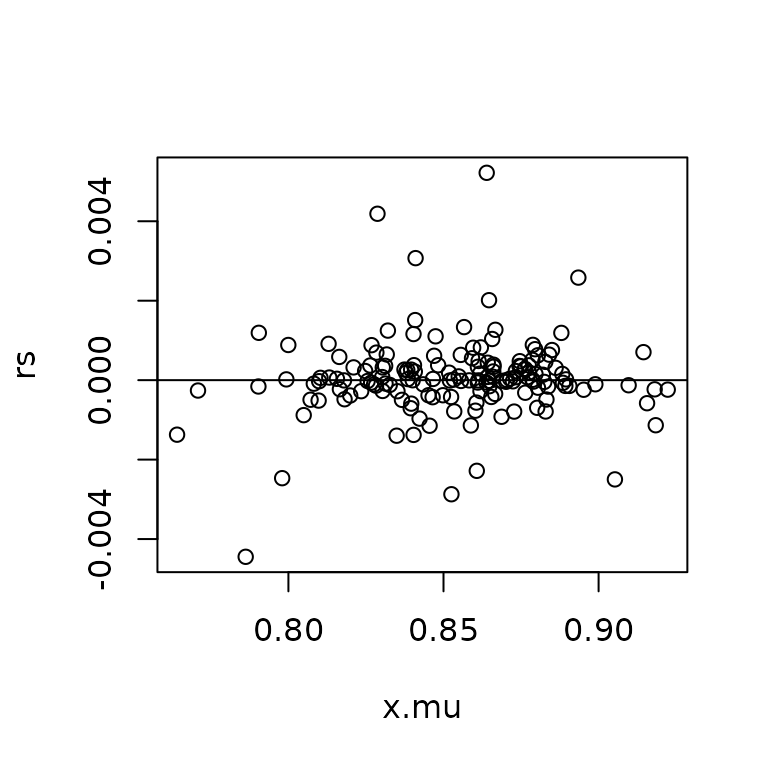
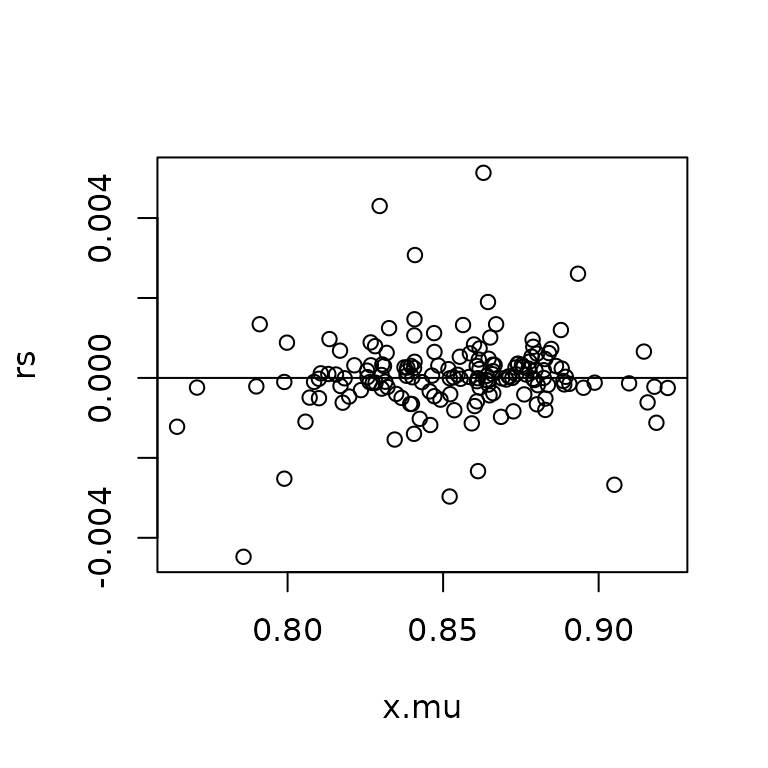
spell check

diff --git a/docs/articles/spatial-me-models.html b/docs/articles/spatial-me-models.html
@@ -203,9 +203,9 @@
 <span><span class="co">## 1 10        0     3</span></span>
 <span><span class="co">##   lower upper</span></span>
 <span><span class="co">## 1  -1.7     1</span></span></code></pre>
-<pre><code><span><span class="co">## Warning: Tail Effective Samples Size (ESS) is too low, indicating posterior variances and tail quantiles may be unreliable.</span></span>
+<pre><code><span><span class="co">## Warning: Bulk Effective Samples Size (ESS) is too low, indicating posterior means and medians may be unreliable.</span></span>
 <span><span class="co">## Running the chains for more iterations may help. See</span></span>
-<span><span class="co">## https://mc-stan.org/misc/warnings.html#tail-ess</span></span></code></pre>
+<span><span class="co">## https://mc-stan.org/misc/warnings.html#bulk-ess</span></span></code></pre>
 <div class="sourceCode" id="cb11"><pre class="downlit sourceCode r">
 <code class="sourceCode R"><span><span class="fu"><a href="https://rdrr.io/r/base/print.html" class="external-link">print</a></span><span class="op">(</span><span class="va">fit</span><span class="op">)</span></span></code></pre></div>
 <pre><code><span><span class="co">## Spatial Model Results </span></span>
@@ -213,8 +213,8 @@
 <span><span class="co">## Spatial method (outcome):  CAR </span></span>
 <span><span class="co">## Likelihood function:  poisson </span></span>
 <span><span class="co">## Link function:  log </span></span>
-<span><span class="co">## Residual Moran Coefficient:  6.076923e-05 </span></span>
-<span><span class="co">## WAIC:  1320.44 </span></span>
+<span><span class="co">## Residual Moran Coefficient:  -0.002759231 </span></span>
+<span><span class="co">## WAIC:  1322.25 </span></span>
 <span><span class="co">## Observations:  159 </span></span>
 <span><span class="co">## Data models (ME): insurance</span></span>
 <span><span class="co">##  Data model (ME prior): CAR (auto Gaussian)</span></span>
@@ -223,12 +223,12 @@
 <span><span class="co">## post-warmup draws per chain=325, total post-warmup draws=1300.</span></span>
 <span><span class="co">## </span></span>
 <span><span class="co">##             mean se_mean    sd   2.5%    25%    50%    75%  97.5% n_eff  Rhat</span></span>
-<span><span class="co">## intercept -4.168   0.002 0.053 -4.275 -4.201 -4.168 -4.136 -4.064  1210 0.999</span></span>
-<span><span class="co">## insurance -2.702   0.023 0.726 -4.084 -3.192 -2.706 -2.231 -1.263   975 1.003</span></span>
-<span><span class="co">## car_rho    0.860   0.003 0.088  0.651  0.808  0.876  0.924  0.982   923 1.000</span></span>
-<span><span class="co">## car_scale  0.451   0.001 0.034  0.388  0.427  0.450  0.472  0.518   837 0.999</span></span>
+<span><span class="co">## intercept -4.165   0.002 0.057 -4.279 -4.199 -4.166 -4.134 -4.040   982 1.000</span></span>
+<span><span class="co">## insurance -2.705   0.021 0.775 -4.168 -3.207 -2.729 -2.185 -1.108  1301 1.001</span></span>
+<span><span class="co">## car_rho    0.869   0.002 0.085  0.673  0.821  0.886  0.933  0.985  1281 0.999</span></span>
+<span><span class="co">## car_scale  0.446   0.001 0.032  0.388  0.423  0.444  0.466  0.511  1030 0.999</span></span>
 <span><span class="co">## </span></span>
-<span><span class="co">## Samples were drawn using NUTS(diag_e) at Fri Mar  1 17:47:26 2024.</span></span>
+<span><span class="co">## Samples were drawn using NUTS(diag_e) at Fri Mar  1 17:55:22 2024.</span></span>
 <span><span class="co">## For each parameter, n_eff is a crude measure of effective sample size,</span></span>
 <span><span class="co">## and Rhat is the potential scale reduction factor on split chains (at </span></span>
 <span><span class="co">## convergence, Rhat=1).</span></span></code></pre>
@@ -271,15 +271,15 @@
 <code class="sourceCode R"><span><span class="fu"><a href="https://rdrr.io/r/utils/head.html" class="external-link">head</a></span><span class="op">(</span><span class="va">mu.x</span><span class="op">)</span></span></code></pre></div>
 <pre><code><span><span class="co">##           parameters</span></span>
 <span><span class="co">## iterations mu_x_true[1]</span></span>
-<span><span class="co">##       [1,]     1.765196</span></span>
-<span><span class="co">##       [2,]     1.835926</span></span>
-<span><span class="co">##       [3,]     1.885358</span></span>
-<span><span class="co">##       [4,]     1.822978</span></span>
-<span><span class="co">##       [5,]     1.719493</span></span>
-<span><span class="co">##       [6,]     1.563228</span></span></code></pre>
+<span><span class="co">##       [1,]     1.791290</span></span>
+<span><span class="co">##       [2,]     1.829802</span></span>
+<span><span class="co">##       [3,]     1.752293</span></span>
+<span><span class="co">##       [4,]     1.765069</span></span>
+<span><span class="co">##       [5,]     1.864278</span></span>
+<span><span class="co">##       [6,]     1.689700</span></span></code></pre>
 <div class="sourceCode" id="cb19"><pre class="downlit sourceCode r">
 <code class="sourceCode R"><span><span class="fu"><a href="https://rdrr.io/r/base/mean.html" class="external-link">mean</a></span><span class="op">(</span><span class="va">mu.x</span><span class="op">)</span></span></code></pre></div>
-<pre><code><span><span class="co">## [1] 1.787358</span></span></code></pre>
+<pre><code><span><span class="co">## [1] 1.785871</span></span></code></pre>
 <p>We can visualize these using <code>plot</code> or print a summary:</p>
 <div class="sourceCode" id="cb21"><pre class="downlit sourceCode r">
 <code class="sourceCode R"><span><span class="fu"><a href="https://rdrr.io/r/base/print.html" class="external-link">print</a></span><span class="op">(</span><span class="va">fit</span><span class="op">$</span><span class="va">stanfit</span>, pars <span class="op">=</span> <span class="fu"><a href="https://rdrr.io/r/base/c.html" class="external-link">c</a></span><span class="op">(</span><span class="st">"mu_x_true"</span>, <span class="st">"car_rho_x_true"</span>, <span class="st">"sigma_x_true"</span><span class="op">)</span><span class="op">)</span></span></code></pre></div>
@@ -288,11 +288,11 @@
 <span><span class="co">## post-warmup draws per chain=325, total post-warmup draws=1300.</span></span>
 <span><span class="co">## </span></span>
 <span><span class="co">##                   mean se_mean   sd 2.5%  25%  50%  75% 97.5% n_eff Rhat</span></span>
-<span><span class="co">## mu_x_true[1]      1.79    0.01 0.09 1.61 1.75 1.79 1.83  1.98   206 1.03</span></span>
-<span><span class="co">## car_rho_x_true[1] 0.91    0.00 0.06 0.76 0.88 0.93 0.96  0.99   808 1.00</span></span>
-<span><span class="co">## sigma_x_true[1]   0.48    0.00 0.03 0.42 0.46 0.48 0.50  0.56   909 1.00</span></span>
+<span><span class="co">## mu_x_true[1]      1.79       0 0.09 1.63 1.74 1.79 1.83  1.94   648    1</span></span>
+<span><span class="co">## car_rho_x_true[1] 0.91       0 0.07 0.73 0.87 0.92 0.95  0.99  1138    1</span></span>
+<span><span class="co">## sigma_x_true[1]   0.48       0 0.03 0.42 0.46 0.48 0.50  0.55  1393    1</span></span>
 <span><span class="co">## </span></span>
-<span><span class="co">## Samples were drawn using NUTS(diag_e) at Fri Mar  1 17:47:26 2024.</span></span>
+<span><span class="co">## Samples were drawn using NUTS(diag_e) at Fri Mar  1 17:55:22 2024.</span></span>
 <span><span class="co">## For each parameter, n_eff is a crude measure of effective sample size,</span></span>
 <span><span class="co">## and Rhat is the potential scale reduction factor on split chains (at </span></span>
 <span><span class="co">## convergence, Rhat=1).</span></span></code></pre>
@@ -306,9 +306,9 @@
 <code class="sourceCode R"><span><span class="va">x.mu</span> <span class="op">&lt;-</span> <span class="fu"><a href="https://rdrr.io/r/base/apply.html" class="external-link">apply</a></span><span class="op">(</span><span class="va">x</span>, <span class="fl">2</span>, <span class="va">mean</span><span class="op">)</span></span>
 <span><span class="fu"><a href="https://rdrr.io/r/utils/head.html" class="external-link">head</a></span><span class="op">(</span><span class="va">x.mu</span><span class="op">)</span></span></code></pre></div>
 <pre><code><span><span class="co">## x_insurance[1] x_insurance[2] x_insurance[3] x_insurance[4] x_insurance[5] </span></span>
-<span><span class="co">##      0.8366108      0.7999680      0.8518015      0.8520586      0.9180799 </span></span>
+<span><span class="co">##      0.8366455      0.7997958      0.8517097      0.8521625      0.9179326 </span></span>
 <span><span class="co">## x_insurance[6] </span></span>
-<span><span class="co">##      0.8701718</span></span></code></pre>
+<span><span class="co">##      0.8702921</span></span></code></pre>
 <p>The vector <code>x.mu</code> contains estimates (posterior means) for <span class="math inline">\(x_i\)</span>. We might want to use these to plot the residuals or fitted values against the predictor:</p>
 <div class="sourceCode" id="cb27"><pre class="downlit sourceCode r">
 <code class="sourceCode R"><span><span class="va">rs</span> <span class="op">&lt;-</span> <span class="fu"><a href="https://rdrr.io/r/stats/residuals.html" class="external-link">resid</a></span><span class="op">(</span><span class="va">fit</span><span class="op">)</span><span class="op">$</span><span class="va">mean</span></span>

diff --git a/docs/articles/raster-regression.html b/docs/articles/raster-regression.html
@@ -162,8 +162,8 @@
 <span><span class="co">## </span></span>
 <span><span class="co">## SAMPLING FOR MODEL 'foundation' NOW (CHAIN 1).</span></span>
 <span><span class="co">## Chain 1: </span></span>
-<span><span class="co">## Chain 1: Gradient evaluation took 0.00058 seconds</span></span>
-<span><span class="co">## Chain 1: 1000 transitions using 10 leapfrog steps per transition would take 5.8 seconds.</span></span>
+<span><span class="co">## Chain 1: Gradient evaluation took 0.000505 seconds</span></span>
+<span><span class="co">## Chain 1: 1000 transitions using 10 leapfrog steps per transition would take 5.05 seconds.</span></span>
 <span><span class="co">## Chain 1: Adjust your expectations accordingly!</span></span>
 <span><span class="co">## Chain 1: </span></span>
 <span><span class="co">## Chain 1: </span></span>
@@ -171,15 +171,15 @@
 <span><span class="co">## Chain 1: Iteration: 251 / 500 [ 50%]  (Sampling)</span></span>
 <span><span class="co">## Chain 1: Iteration: 500 / 500 [100%]  (Sampling)</span></span>
 <span><span class="co">## Chain 1: </span></span>
-<span><span class="co">## Chain 1:  Elapsed Time: 3.51 seconds (Warm-up)</span></span>
-<span><span class="co">## Chain 1:                0.811 seconds (Sampling)</span></span>
-<span><span class="co">## Chain 1:                4.321 seconds (Total)</span></span>
+<span><span class="co">## Chain 1:  Elapsed Time: 3.264 seconds (Warm-up)</span></span>
+<span><span class="co">## Chain 1:                0.76 seconds (Sampling)</span></span>
+<span><span class="co">## Chain 1:                4.024 seconds (Total)</span></span>
 <span><span class="co">## Chain 1: </span></span>
 <span><span class="co">## </span></span>
 <span><span class="co">## SAMPLING FOR MODEL 'foundation' NOW (CHAIN 2).</span></span>
 <span><span class="co">## Chain 2: </span></span>
-<span><span class="co">## Chain 2: Gradient evaluation took 0.000465 seconds</span></span>
-<span><span class="co">## Chain 2: 1000 transitions using 10 leapfrog steps per transition would take 4.65 seconds.</span></span>
+<span><span class="co">## Chain 2: Gradient evaluation took 0.000432 seconds</span></span>
+<span><span class="co">## Chain 2: 1000 transitions using 10 leapfrog steps per transition would take 4.32 seconds.</span></span>
 <span><span class="co">## Chain 2: Adjust your expectations accordingly!</span></span>
 <span><span class="co">## Chain 2: </span></span>
 <span><span class="co">## Chain 2: </span></span>
@@ -187,15 +187,15 @@
 <span><span class="co">## Chain 2: Iteration: 251 / 500 [ 50%]  (Sampling)</span></span>
 <span><span class="co">## Chain 2: Iteration: 500 / 500 [100%]  (Sampling)</span></span>
 <span><span class="co">## Chain 2: </span></span>
-<span><span class="co">## Chain 2:  Elapsed Time: 1.509 seconds (Warm-up)</span></span>
-<span><span class="co">## Chain 2:                0.832 seconds (Sampling)</span></span>
-<span><span class="co">## Chain 2:                2.341 seconds (Total)</span></span>
+<span><span class="co">## Chain 2:  Elapsed Time: 1.404 seconds (Warm-up)</span></span>
+<span><span class="co">## Chain 2:                0.77 seconds (Sampling)</span></span>
+<span><span class="co">## Chain 2:                2.174 seconds (Total)</span></span>
 <span><span class="co">## Chain 2: </span></span>
 <span><span class="co">## </span></span>
 <span><span class="co">## SAMPLING FOR MODEL 'foundation' NOW (CHAIN 3).</span></span>
 <span><span class="co">## Chain 3: </span></span>
-<span><span class="co">## Chain 3: Gradient evaluation took 0.000491 seconds</span></span>
-<span><span class="co">## Chain 3: 1000 transitions using 10 leapfrog steps per transition would take 4.91 seconds.</span></span>
+<span><span class="co">## Chain 3: Gradient evaluation took 0.000433 seconds</span></span>
+<span><span class="co">## Chain 3: 1000 transitions using 10 leapfrog steps per transition would take 4.33 seconds.</span></span>
 <span><span class="co">## Chain 3: Adjust your expectations accordingly!</span></span>
 <span><span class="co">## Chain 3: </span></span>
 <span><span class="co">## Chain 3: </span></span>
@@ -203,15 +203,15 @@
 <span><span class="co">## Chain 3: Iteration: 251 / 500 [ 50%]  (Sampling)</span></span>
 <span><span class="co">## Chain 3: Iteration: 500 / 500 [100%]  (Sampling)</span></span>
 <span><span class="co">## Chain 3: </span></span>
-<span><span class="co">## Chain 3:  Elapsed Time: 1.491 seconds (Warm-up)</span></span>
-<span><span class="co">## Chain 3:                0.739 seconds (Sampling)</span></span>
-<span><span class="co">## Chain 3:                2.23 seconds (Total)</span></span>
+<span><span class="co">## Chain 3:  Elapsed Time: 1.421 seconds (Warm-up)</span></span>
+<span><span class="co">## Chain 3:                0.701 seconds (Sampling)</span></span>
+<span><span class="co">## Chain 3:                2.122 seconds (Total)</span></span>
 <span><span class="co">## Chain 3: </span></span>
 <span><span class="co">## </span></span>
 <span><span class="co">## SAMPLING FOR MODEL 'foundation' NOW (CHAIN 4).</span></span>
 <span><span class="co">## Chain 4: </span></span>
-<span><span class="co">## Chain 4: Gradient evaluation took 0.000517 seconds</span></span>
-<span><span class="co">## Chain 4: 1000 transitions using 10 leapfrog steps per transition would take 5.17 seconds.</span></span>
+<span><span class="co">## Chain 4: Gradient evaluation took 0.000435 seconds</span></span>
+<span><span class="co">## Chain 4: 1000 transitions using 10 leapfrog steps per transition would take 4.35 seconds.</span></span>
 <span><span class="co">## Chain 4: Adjust your expectations accordingly!</span></span>
 <span><span class="co">## Chain 4: </span></span>
 <span><span class="co">## Chain 4: </span></span>
@@ -219,9 +219,9 @@
 <span><span class="co">## Chain 4: Iteration: 251 / 500 [ 50%]  (Sampling)</span></span>
 <span><span class="co">## Chain 4: Iteration: 500 / 500 [100%]  (Sampling)</span></span>
 <span><span class="co">## Chain 4: </span></span>
-<span><span class="co">## Chain 4:  Elapsed Time: 1.551 seconds (Warm-up)</span></span>
-<span><span class="co">## Chain 4:                0.724 seconds (Sampling)</span></span>
-<span><span class="co">## Chain 4:                2.275 seconds (Total)</span></span>
+<span><span class="co">## Chain 4:  Elapsed Time: 1.42 seconds (Warm-up)</span></span>
+<span><span class="co">## Chain 4:                0.676 seconds (Sampling)</span></span>
+<span><span class="co">## Chain 4:                2.096 seconds (Total)</span></span>
 <span><span class="co">## Chain 4:</span></span></code></pre>
 <div class="sourceCode" id="cb22"><pre class="downlit sourceCode r">
 <code class="sourceCode R"><span><span class="fu"><a href="https://rdrr.io/r/base/print.html" class="external-link">print</a></span><span class="op">(</span><span class="va">fit</span><span class="op">)</span>      </span></code></pre></div>
@@ -243,7 +243,7 @@
 <span><span class="co">## sar_rho    0.874   0.000 0.015  0.844  0.864  0.874  0.883  0.902   924 1.004</span></span>
 <span><span class="co">## sar_scale  0.312   0.000 0.006  0.299  0.307  0.311  0.316  0.324  1026 1.001</span></span>
 <span><span class="co">## </span></span>
-<span><span class="co">## Samples were drawn using NUTS(diag_e) at Fri Mar  1 17:47:11 2024.</span></span>
+<span><span class="co">## Samples were drawn using NUTS(diag_e) at Fri Mar  1 17:55:09 2024.</span></span>
 <span><span class="co">## For each parameter, n_eff is a crude measure of effective sample size,</span></span>
 <span><span class="co">## and Rhat is the potential scale reduction factor on split chains (at </span></span>
 <span><span class="co">## convergence, Rhat=1).</span></span></code></pre>

diff --git a/docs/articles/measuring-sa.html b/docs/articles/measuring-sa.html
@@ -269,8 +269,8 @@
 <span><span class="co">#&gt; Spatial method (outcome):  Exchangeable </span></span>
 <span><span class="co">#&gt; Likelihood function:  poisson </span></span>
 <span><span class="co">#&gt; Link function:  log </span></span>
-<span><span class="co">#&gt; Residual Moran Coefficient:  0.02182775 </span></span>
-<span><span class="co">#&gt; WAIC:  1319.59 </span></span>
+<span><span class="co">#&gt; Residual Moran Coefficient:  0.02271325 </span></span>
+<span><span class="co">#&gt; WAIC:  1320.58 </span></span>
 <span><span class="co">#&gt; Observations:  159 </span></span>
 <span><span class="co">#&gt; Data models (ME): none</span></span>
 <span><span class="co">#&gt; Inference for Stan model: foundation.</span></span>
@@ -278,10 +278,10 @@
 <span><span class="co">#&gt; post-warmup draws per chain=1000, total post-warmup draws=4000.</span></span>
 <span><span class="co">#&gt; </span></span>
 <span><span class="co">#&gt;             mean se_mean    sd   2.5%    25%    50%    75%  97.5% n_eff  Rhat</span></span>
-<span><span class="co">#&gt; intercept -4.180   0.001 0.022 -4.222 -4.194 -4.180 -4.166 -4.136   314 1.012</span></span>
-<span><span class="co">#&gt; alpha_tau  0.248   0.000 0.016  0.218  0.237  0.247  0.258  0.280  4065 0.999</span></span>
+<span><span class="co">#&gt; intercept -4.181   0.001 0.022 -4.225 -4.197 -4.181 -4.166 -4.138   310 1.010</span></span>
+<span><span class="co">#&gt; alpha_tau  0.247   0.000 0.015  0.219  0.237  0.247  0.257  0.278  4210 0.999</span></span>
 <span><span class="co">#&gt; </span></span>
-<span><span class="co">#&gt; Samples were drawn using NUTS(diag_e) at Fri Mar  1 17:46:38 2024.</span></span>
+<span><span class="co">#&gt; Samples were drawn using NUTS(diag_e) at Fri Mar  1 17:54:37 2024.</span></span>
 <span><span class="co">#&gt; For each parameter, n_eff is a crude measure of effective sample size,</span></span>
 <span><span class="co">#&gt; and Rhat is the potential scale reduction factor on split chains (at </span></span>
 <span><span class="co">#&gt; convergence, Rhat=1).</span></span></code></pre></div>

diff --git a/docs/news/index.html b/docs/news/index.html
@@ -84,7 +84,7 @@
 <code>slim = TRUE</code> The model fitting functions (<code>stan_glm</code>, <code>stan_car</code>, <code>stan_sar</code>, <code>stan_esf</code>, <code>stan_icar</code>) now provide the option to trim down the parameters for which MCMC samples are collected. For large N and/or many N-length vectors of parameters, this option can speed up sampling considerably and reduce memory usage. The new <code>drop</code> argument provides users control over which parameter vectors will be ignored. This functionality may be helpful for any number of purposes, including modeling large data sets, measurement error models, and Monte Carlo studies.</li>
 <li>
 <code>prep_sar_data2</code> and <code>prep_car_data2</code> These two functions can quickly prepare required data for SAR and CAR models when using raster layers (observations on a regularly spaced grid). The standard and more generally applicable functions <code>prep_car_data</code> and <code>prep_sar_data</code> are limited in terms of the size of spatial weights matrices they can handle.</li>
-</ol><p>These new functions are dicussed in a new vignette titled “Raster regression.”</p>
+</ol><p>These new functions are discussed in a new vignette titled “Raster regression.”</p>
 </div>
 <div class="section level3">
 <h3 id="minor-changes-0-5-0">Minor changes<a class="anchor" aria-label="anchor" href="#minor-changes-0-5-0"></a></h3>

diff --git a/docs/reference/prep_car_data2.html b/docs/reference/prep_car_data2.html
@@ -77,7 +77,7 @@
     <div id="details">
     <h2>Details</h2>
     <p>Prepare input data for the CAR model when your dataset consists of observations on a regular (rectangular) tessellation, such as a raster layer or remotely sensed imagery. The rook criteria is used to determine adjacency. This function uses Equation 5 from Griffith (2000) to generate approximate eigenvalues for a row-standardized spatial weights matrix from a P-by-Q dimension regular tessellation.</p>
-<p>This function can accomodate very large numbers of observations for use with <code><a href="stan_car.html">stan_car</a></code>; for large N data, it is also recommended to use <code>slim = TRUE</code> or the <code>drop</code> argument. For more details, see: <code><a href="../articles/raster-regression.html">vignette("raster-regression", package = "geostan")</a></code>.</p>
+<p>This function can accommodate very large numbers of observations for use with <code><a href="stan_car.html">stan_car</a></code>; for large N data, it is also recommended to use <code>slim = TRUE</code> or the <code>drop</code> argument. For more details, see: <code><a href="../articles/raster-regression.html">vignette("raster-regression", package = "geostan")</a></code>.</p>
     </div>
     <div id="see-also">
     <h2>See also</h2>

diff --git a/docs/reference/prep_sar_data2.html b/docs/reference/prep_sar_data2.html
@@ -77,7 +77,7 @@
     <div id="details">
     <h2>Details</h2>
     <p>Prepare data for the SAR model when your raw dataset consists of observations on a regular tessellation, such as a raster layer or remotely sensed imagery. The rook criteria is used to determine adjacency. This function uses Equation 5 from Griffith (2000) to calculate the eigenvalues for a row-standardized spatial weights matrix of a P-by-Q dimension regular tessellation.</p>
-<p>This function can accomodate very large numbers of observations for use with <code><a href="stan_sar.html">stan_sar</a></code>; for large N data, it is also recommended to use <code>slim = TRUE</code> or the <code>drop</code> argument. For details, see: <code><a href="../articles/raster-regression.html">vignette("raster-regression", package = "geostan")</a></code>.</p>
+<p>This function can accommodate very large numbers of observations for use with <code><a href="stan_sar.html">stan_sar</a></code>; for large N data, it is also recommended to use <code>slim = TRUE</code> or the <code>drop</code> argument. For details, see: <code><a href="../articles/raster-regression.html">vignette("raster-regression", package = "geostan")</a></code>.</p>
     </div>
     <div id="see-also">
     <h2>See also</h2>

diff --git a/NEWS.md b/NEWS.md
@@ -33,7 +33,7 @@ The package now provides some support for spatial regression with raster data, i
  1. `slim = TRUE` The model fitting functions (`stan_glm`, `stan_car`, `stan_sar`, `stan_esf`, `stan_icar`) now provide the option to trim down the parameters for which MCMC samples are collected. For large N and/or many N-length vectors of parameters, this option can speed up sampling considerably and reduce memory usage. The new `drop` argument provides users control over which parameter vectors will be ignored. This functionality may be helpful for any number of purposes, including modeling large data sets, measurement error models, and Monte Carlo studies.
  2. `prep_sar_data2` and `prep_car_data2` These two functions can quickly prepare required data for SAR and CAR models when using raster layers (observations on a regularly spaced grid). The standard and more generally applicable functions `prep_car_data` and `prep_sar_data` are limited in terms of the size of spatial weights matrices they can handle.
 
-These new functions are dicussed in a new vignette titled "Raster regression."
+These new functions are discussed in a new vignette titled "Raster regression."
 
 ## Minor changes
 
